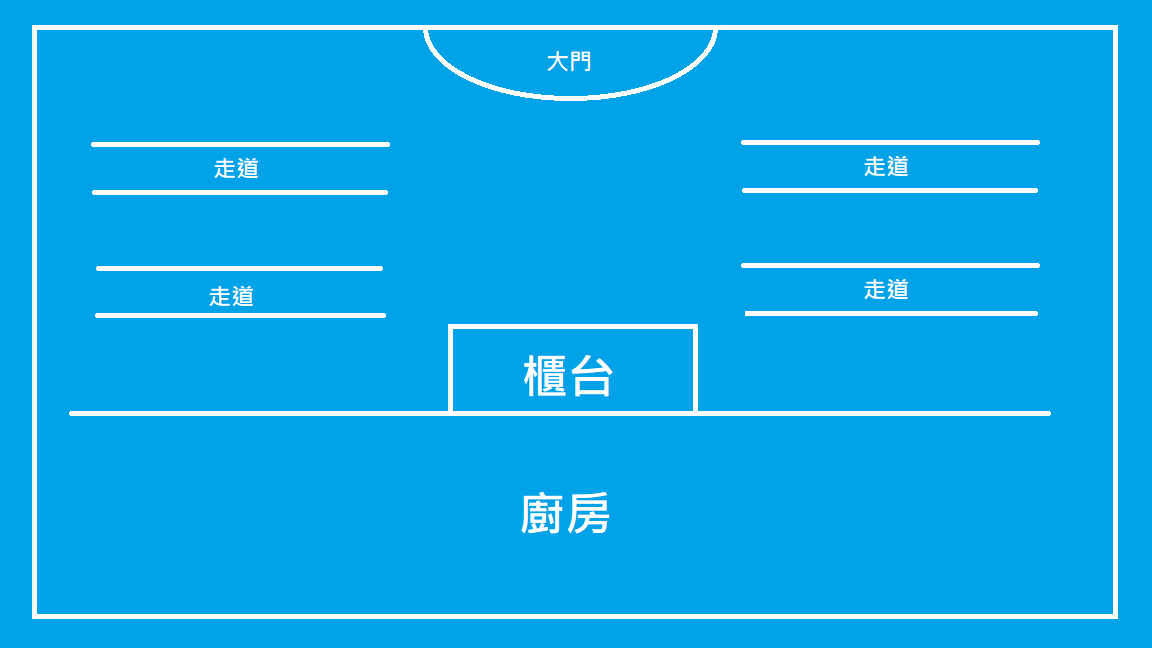
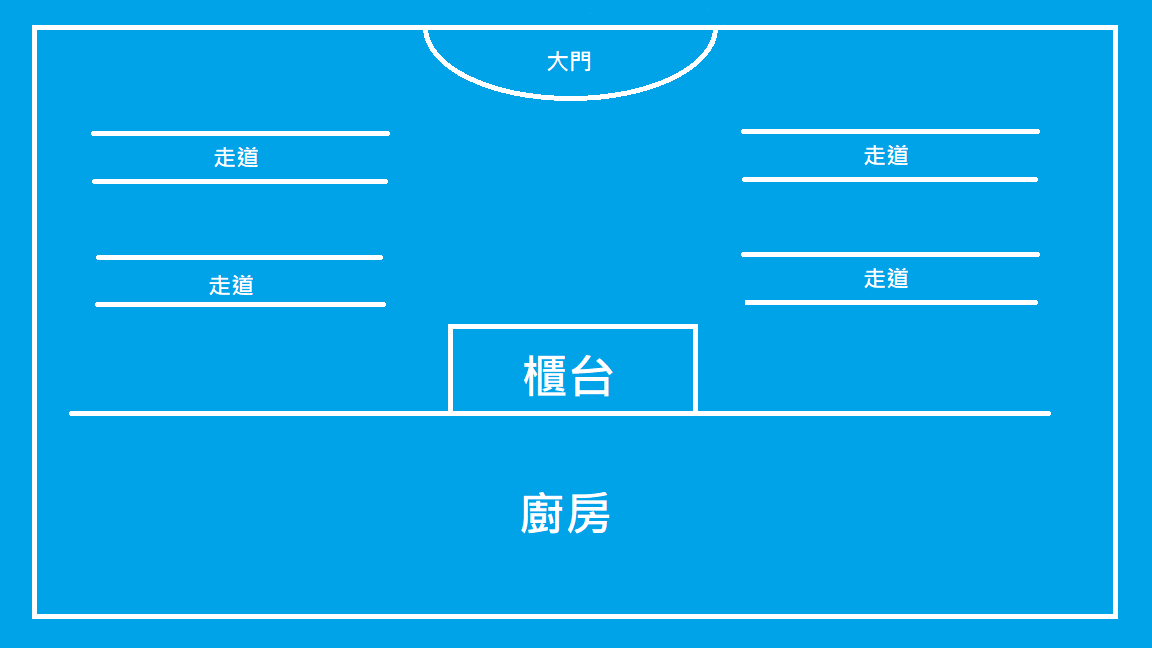
桌位擺設微調&訂位首頁調整配合

diff --git a/resources/views/backstage/counter/booking/index.blade.php b/resources/views/backstage/counter/booking/index.blade.php
@@ -24,8 +24,11 @@
             max-width: 1500px;
             border-radius: 5px;
             background-color: #fff;
-            padding: 20px 30px;
+            padding: 13px 17px;
             box-shadow: 0px 0px 17px -4px #000;
+            background-position: top;
+            background-size: 100%;
+            background-repeat:no-repeat;
         }
 
         ol {
@@ -43,15 +46,15 @@
 
         .seat {
             display: flex;
-            flex: 0 0 9.09%;
-            height: 60px;
+            flex: 0 0 5.26%;
+            height: 65px;
             padding: 5px;
             position: relative;
         }
 
-        .seat:nth-child(5) {
-            margin-right: 9.09%;
-        }
+        /*.seat:nth-child(5) {*/
+            /*margin-right: 9.09%;*/
+        /*}*/
 
         .seat input[type="checkbox"] {
             position: absolute;
@@ -197,17 +200,17 @@
     </div>
 
 
-    <div class="theatre">
+    <div class="theatre" style="background-image: url(/img/table_example1.png); ">
         <ol class="cabin">
-            @for($i=1;$i<=10;$i++)
+            @for($i=1;$i<=12;$i++)
                 <li class="row row--{{$i}}">
                     <ol class="seats" type="A">
-                        @for($k=1;$k<=10;$k++)
+                        @for($k=1;$k<=18;$k++)
                             <li class="seat">
                                 @foreach($tables as $table)
                                     @if($table->row == $i && $table->col == $k)
                                         @if($table->status == "空閒中")
-                                            <label style="background-color: #337ab7" for="{{$i}}-{{$k}}">{{$i}}-{{$k}}
+                                            <label style="background-color: #77e475" for="{{$i}}-{{$k}}">{{$i}}-{{$k}}
                                                 <p>{{ $table->status }}</label>
                                         @else
                                             <label for="{{$i}}-{{$k}}">{{$i}}-{{$k}}<p>{{ $table->status }}</label>

diff --git a/resources/views/backstage/manager/seat/seat.blade.php b/resources/views/backstage/manager/seat/seat.blade.php
@@ -34,7 +34,7 @@
             padding: 5px;
             border: 1px solid #000;
             background-size: 100%;
-            background-position: center;
+            background-position: top;
             background-repeat:no-repeat;
         }
 
